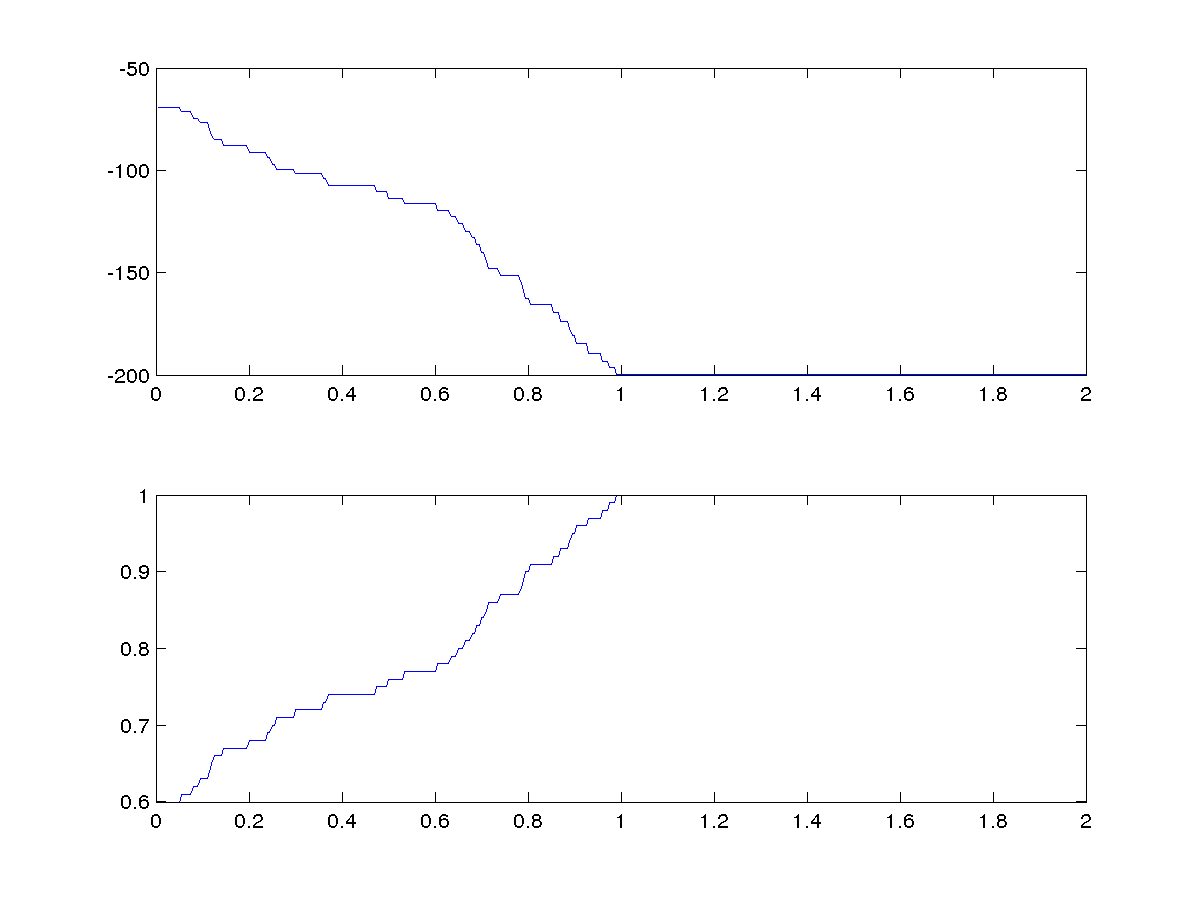
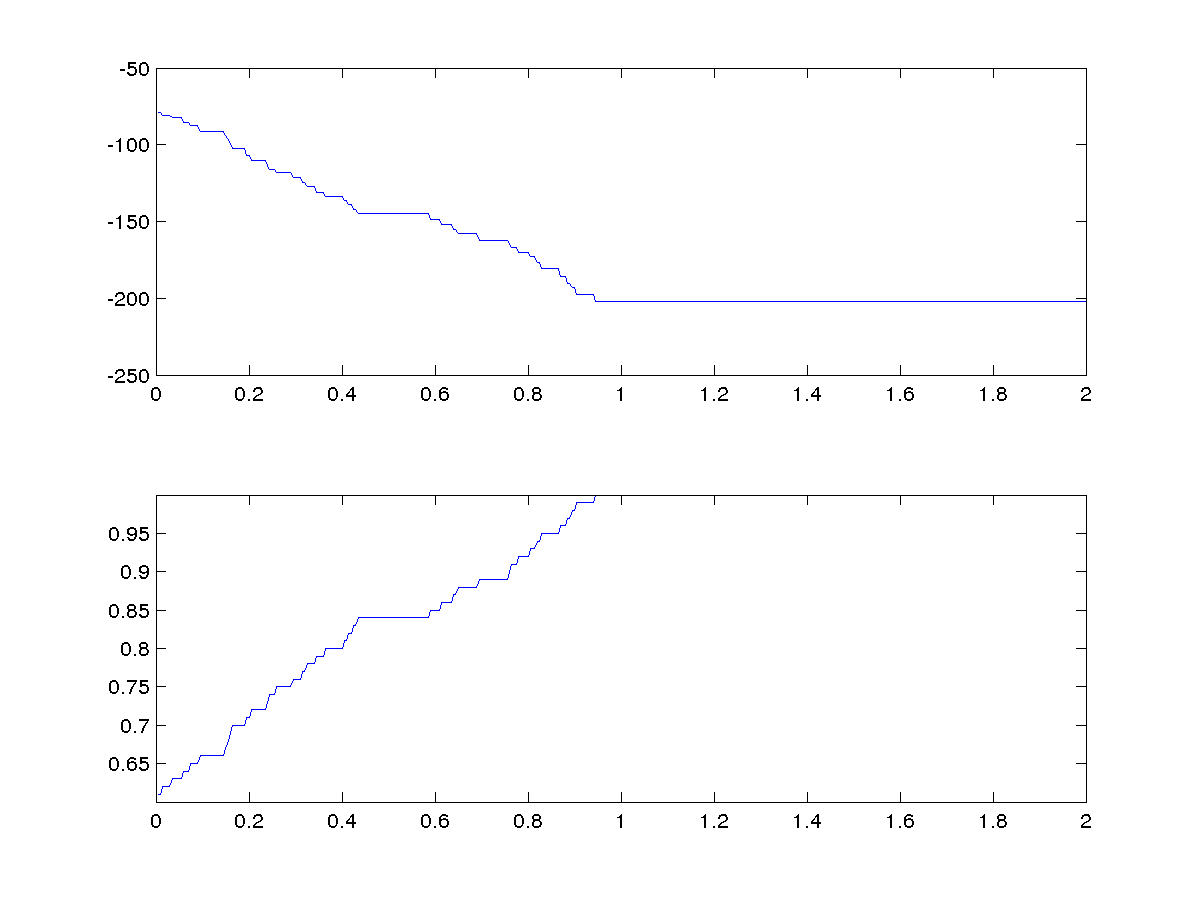
großes Durcheinander

diff --git a/src/Hopfield.py b/src/Hopfield.py
@@ -7,6 +7,7 @@ tmax = 20
 class HopfieldNetwork:
     def __init__(self,N):
         self.N = N
+<<<<<<< HEAD:src/Hopfield.py
         """
             DEFINITION
             initialization of the class
@@ -37,6 +38,13 @@ class HopfieldNetwork:
         #defines how many cells should be 1
         idx = int(ratio*self.N) 
         
+=======
+
+    def create_pattern(self,P=5,ratio=0.5):
+        self.P = P
+        self.pattern = -ones((P,self.N),int) #creates an array of ones of length self.N and height P of type int
+        idx = int(ratio*self.N) #defines how many cells should be 1
+>>>>>>> 9bf2213874df23be0e4eb496f73de6ea9f3ba051:src/HopfieldNetwork_sequential.py
         for i in range(P):
             # sets the first idx cells to 1
             self.pattern[i,:idx] = 1 
@@ -46,6 +54,7 @@ class HopfieldNetwork:
             self.pattern[i] = permutation(self.pattern[i]) 
 
     def calc_weight(self):
+<<<<<<< HEAD:src/Hopfield.py
         """
             DEFINITION
             creates a matrix with all the weights
@@ -119,10 +128,31 @@ class HopfieldNetwork:
 
         if sum(self.weight*self.x,axis=1)[j]==0:
             self.x[j]=1
+=======
+        self.weight=1./self.N*np.dot((self.pattern[:,:]).T,self.pattern[:,:])
+            
+    def set_init_state(self,mu,flip_ratio):
+        self.x=np.zeros((1,self.N))
+        self.x[0,:] = self.pattern[mu,:] # duplicate pattern mu as test pattern and save it as self.x
+        flip = permutation(arange(self.N)) #create a random array of length self.N
+        idx = int(self.N*flip_ratio) # define how many elements should be flipped
+        self.x[0,flip[0:idx]] *= -1 # flip ids number of array
+        self.t = [0] #set the inital time step to 0
+        overlap = [self.overlap(mu)] # set the initial overlap to that of the pattern to iself
+
+    def energy(self):
+        e=-np.dot(self.x,np.dot(self.weight,(self.x).T))
+        return e[0,0]
+    
+    def dynamic_seq(self,j):
+        if sign(np.dot(self.x[:,:],self.weight[:,:])[0,j])==0:
+            self.x[0,j]=1
+>>>>>>> 9bf2213874df23be0e4eb496f73de6ea9f3ba051:src/HopfieldNetwork_sequential.py
         else:
-            self.x[j]=sign(sum(self.weight*self.x,axis=1)[j])
+            self.x[0,j]=sign(np.dot(self.x[:,:],self.weight[:,:])[0,j])
     
     def overlap(self,mu=0):
+<<<<<<< HEAD:src/Hopfield.py
         """
         DEFINITION
         computes the overlap of the test pattern with pattern nb mu
@@ -147,6 +177,13 @@ class HopfieldNetwork:
         -L.Ziegler 03.2009.
         -N.Fremaux 03.2010.
         """
+=======
+        
+        return np.dot(self.pattern[mu,:],self.x[0,:])/float(self.N)
+
+    def run(self,P=5, ratio=0.5, mu=0, flip_ratio=0.2):
+        clf()
+>>>>>>> 9bf2213874df23be0e4eb496f73de6ea9f3ba051:src/HopfieldNetwork_sequential.py
         
         self.create_pattern(P, ratio)
         self.calc_weight()
@@ -155,6 +192,7 @@ class HopfieldNetwork:
         t = [0]
         overlap = [self.overlap(mu)]
         energy = [self.energy()]
+<<<<<<< HEAD:src/Hopfield.py
 
         # prepare the figure
         figure()
@@ -163,18 +201,46 @@ class HopfieldNetwork:
         # we keep a handle to the image
         g1, = plot(t,energy,'k',lw=2)
         axis([0,2,0,-self.N*5])
+=======
+        
+        '''
+        # plot the current network state
+        subplot(221)
+        g1 = imshow(self.grid(),**plot_dic)# we keep a handle to the image
+        axis('off')
+        title('x')
+        
+        # plot the target pattern
+        subplot(222)
+        imshow(self.grid(mu=mu),**plot_dic)
+        axis('off')
+        title('pattern %i'%mu)
+        '''  
+
+        subplot(211)
+        g1, = plot(t,energy,'b',lw=2)
+        axis([0,2,-self.N*5,0])
+>>>>>>> 9bf2213874df23be0e4eb496f73de6ea9f3ba051:src/HopfieldNetwork_sequential.py
         xlabel('time step')
         ylabel('energy')
 
         # plot the time course of the overlap
         subplot(212)
+<<<<<<< HEAD:src/Hopfield.py
         # we keep a handle to the curve
         g2, = plot(t,overlap,'k',lw=2) 
+=======
+        g2, = plot(t,overlap,'b',lw=2) # we keep a handle to the curve
+>>>>>>> 9bf2213874df23be0e4eb496f73de6ea9f3ba051:src/HopfieldNetwork_sequential.py
         axis([0,2,-1,1])
         xlabel('time step')
         ylabel('overlap')
         
         # this forces pylab to update and show the fig.
+<<<<<<< HEAD:src/Hopfield.py
+=======
+
+>>>>>>> 9bf2213874df23be0e4eb496f73de6ea9f3ba051:src/HopfieldNetwork_sequential.py
         draw()
         
         x_old = copy(self.x)
@@ -210,6 +276,6 @@ class HopfieldNetwork:
                 break
             x_old = copy(self.x)
             #sleep(0.5)
-        print 'pattern recovered in %i time steps with final overlap %.3f and energy %.3f'%(i_fin,overlap[-1],energy[-1])
-        show()
+                #print 'pattern recovered in %i time steps with final overlap %.3f and energy %.3f'%(i_fin,overlap[-1],energy[-1])
+                #show()
         return overlap[-1]

diff --git a/tex/Introduction.tex b/tex/Introduction.tex
@@ -1,4 +1,4 @@
-\section{Introduction}
+		\section{Introduction}
 
 Hopfield Networks were invented by John Hopfield in 1982 under the name of \textit{associative neural network}. They are content addressable binary memory systems that are insensitive to small errors used to model associative memory problems: 
 \begin{quote}
@@ -14,11 +14,7 @@ Hopfield Networks were invented by John Hopfield in 1982 under the name of \text
 \end{comment}
 
 
-
-The standard approach to the Hopfield Network includes the use of Hebbian type correlations between pixels. When analyzing one pattern, 
-
-
-In order to facilitate the mathematical computation, the basis of the binary system is changed from a $\{0,1\}$ base to a $\{-1,1\}$ base, where $-1$ represents a firing neuron. We furthermore denote the pixels by $S_i$ and there correlations by $\omega_{ij}$. The dynamics of the Hopfield Network are then given by:
+In order to facilitate the mathematical computation, the basis of the binary system is changed from a $\{0,1\}$ base to a $\{-1,1\}$ base, where $-1$ represents a firing neuron. We furthermore denote the pixels by $S_i$ and there correlations by $\omega_{ij}$. The dynamics of the Network are then given by:
 \begin{equation}
 S_i := sign \left( \sum_j \omega_{ij} S_j \right)
 \label{eq: sequential dynamics}
@@ -33,9 +29,17 @@ When analysing just one pattern $\xi_i$, the stable condition becomes very simpl
 \begin{equation}
 sgn\left( \sum_j^N \omega_{ij} \xi_j \right) = \xi_j, \quad	\forall i
 \end{equation}
+<<<<<<< HEAD
 This is clearly the case for all $\omega_{ij}=\frac{1}{N} \xi_i \xi_j$. This formalism clearly retains the insensitivity of the Hopfield Network to minor errors in the pattern, since even if some pixels are wrong, as long as it is less then half the pixels, equation \ref{eq: sequential dynamics} will still give the correct result and produce $\xi_i$. $\xi_i$ is therefore called an \textbf{attractor}. For each attractor there must be a second attractor called the \textbf{reversed state} $-\sigma$, which is reached when more than half of the pixels are faulty. 
+=======
+This is clearly the case for all $\omega_{ij}=\frac{1}{N} \xi_i \xi_j$. This formalism clearly retains the insensitivity of the Network to minor errors in the pattern, since even if some pixels are wrong, as long as it is less then half the pixels, equation \ref{eq: sequential dynamics} will still give the correct result and produce $\xi_i$. $\xi_i$ is therefore called an \textbf{attractor}. For each attractor there must be a second attractor called the \textbf{reversed state} $-\sigma$, which is reached when more than half of the pixels are faulty. 
+>>>>>>> 9bf2213874df23be0e4eb496f73de6ea9f3ba051
 When trying to recall the most similar pattern out of several patterns, we can define the weights as a superposition of the individual weights for $p$ patterns:
 \begin{equation}
 \omega_{ij}=\frac{1}{N} \sum_{mu=1}^p \xi_i^\mu \xi_j^\mu
 \end{equation}
+This weight matrix is often called the "Hebb rule" or "generalized Hebb rule" \citep{Polk:2002fk}. Networks using this weight system with binary units and asynchronous updating is called a Hopfield Network. 
+
+\subsection{Crosstalk Term}
+
 

diff --git a/src/Hopfield.m b/src/Hopfield.m
@@ -1,12 +1,13 @@
 classdef Hopfield
+    
     properties
         N
         P
         pattern
         weight
-
+        
         x
-
+        
         meanRetrievalError
         tmax
     end
@@ -17,23 +18,39 @@ classdef Hopfield
         pixelDistance
     end
     
+    properties (Access=private)
+        initFlag
+    end
+    
     methods
         function obj = Hopfield(N)
             obj.N = N;
+            obj.P = 0;
+            obj.pattern = [];
             obj.tmax = 20;
+            obj.initFlag = false;
         end
         
-        function obj = create_pattern(obj, P, ratio)
-            obj.P = P;
+        function pattern = create_pattern(obj, P, ratio)
             idx = ceil(ratio * obj.N);
-            obj.pattern = [-ones(P,idx) ones(P,obj.N-idx)];
-            
+            pattern = [-ones(P,idx) ones(P,obj.N-idx)];
             
             for i = 1:P
                 perm = randperm(obj.N);
-                obj.pattern(i,:) = obj.pattern(i,perm);
+                pattern(i,:) = pattern(i,perm);
             end
             
+        end
+        
+        function obj = add_pattern(obj,P,ratio)
+            %% Exercise 2
+            obj.P = obj.P + P;
+            
+            obj.pattern = [obj.pattern ;...
+                obj.create_pattern(P,ratio)];
+            
+            % update weight
+            obj = obj.calc_weight;
         end
         
         function obj = calc_weight(obj)
@@ -82,10 +99,16 @@ classdef Hopfield
             energy = - sum(sum(obj.weight .* (obj.x' * obj.x)));
         end
         
-        function obj = run(obj, P, ratio, mu, flip_ratio, bPlot)
-            obj = obj.create_pattern(P, ratio);
-            obj = obj.calc_weight;
+        function obj = init(obj, P, ratio, mu, flip_ratio)
+            obj = obj.add_pattern(P, ratio);
             obj = obj.set_init_state(mu,flip_ratio);
+            obj.initFlag = true;
+        end
+        
+        function obj = run(obj, P, ratio, mu, flip_ratio, bPlot)
+            if ~obj.initFlag || obj.P ~= P
+                obj = obj.init(P,ratio,mu,flip_ratio);
+            end
             
             time = cumsum(ones(obj.tmax * obj.N,1))/obj.N;
             energy = zeros(obj.tmax * obj.N,1);

diff --git a/src/exercise1.m b/src/exercise1.m
@@ -42,28 +42,42 @@ close;
 % P at which patterns can be retrieved from the network with a 
 % mean retrieval error of less than 2%?
 
-h = Hopfield(200);
+N = 200;
+h = Hopfield(N);
 flip_ratio = 0.1;
 ratio = 0.5;
 
-P = 25;
+P = 50;
 Q = 2;
 
 mu = 1;
-error = zeros(P,Q);
+error = zeros(Q,P);
 for p = 1:P
     for q = 1:Q
         mu = randi(p,1);
         h = h.run(p, ratio, mu, flip_ratio, false);
-        error(p,q) = h.meanRetrievalError(mu);
+        error(q,p) = h.meanRetrievalError(mu);
     end
 end
-e = std(error,[],2);
-y = mean(error,2);
-errorbar(y,e);
-title(sprintf('Mean retrieval error vs. number of patterns (Q=%d)',Q));
+e = std(error);
+y = mean(error);
+
+boxplot(error,'plotstyle','compact')
+title(sprintf('Mean retrieval error (N=%d, Q=%d)',N,Q));
 ylabel('mean retrieval error');
 xlabel('# patterns');
-
-print('../tex/img/exer1_3m.png','-dpng');
+grid on
+print(sprintf('../tex/img/exer1_3m-box_error_N%d_Q%d.png',N,Q),'-dpng');
 close;
+
+errorbar(y,e);
+title(sprintf('Mean retrieval error (N=%d, Q=%d)',N,Q));
+ylabel('mean retrieval error');
+xlabel('# patterns');
+grid on
+hold on
+plot([1 50],[0.98 0.98],'--r');
+print(sprintf('../tex/img/exer1_3m-bar_error_N%d_Q%d.png',N,Q),'-dpng');
+close;
+
+

diff --git a/tex/Abstract.tex b/tex/Abstract.tex
@@ -1,3 +1,3 @@
 \begin{abstract}
-In this report we will analyse how the storage capacity of a Hopfield Network changes when the Hebbian weight matrices is altered so that reciprocal connections are no longer symmetric. Furthermore Dale's law is considered, stating that synaptic connections to postsynaptic neurons are either of the excitatory or inhibitory type, never both. This makes the network more realistic.
+In this report we will analyse how the storage capacity of a Hopfield Network changes when the Hebbian weight matrices is altered so that reciprocal connections are no longer symmetric. Furthermore Dale's law is considered, stating that synaptic connections to post-synaptic neurons are either of the excitatory or inhibitory type, never both. This makes the network more realistic.
 \end{abstract}

diff --git a/src/main.m b/src/main.m
@@ -2,9 +2,4 @@
 %
 %% HopfieldNetwork
 
-h = Hopfield(200);
-P = 5;
-ratio = 0.5;
-mu = 1;
-flip_ratio = 0.2;
-h = h.run(P, ratio, mu, flip_ratio);
+exercise1;
